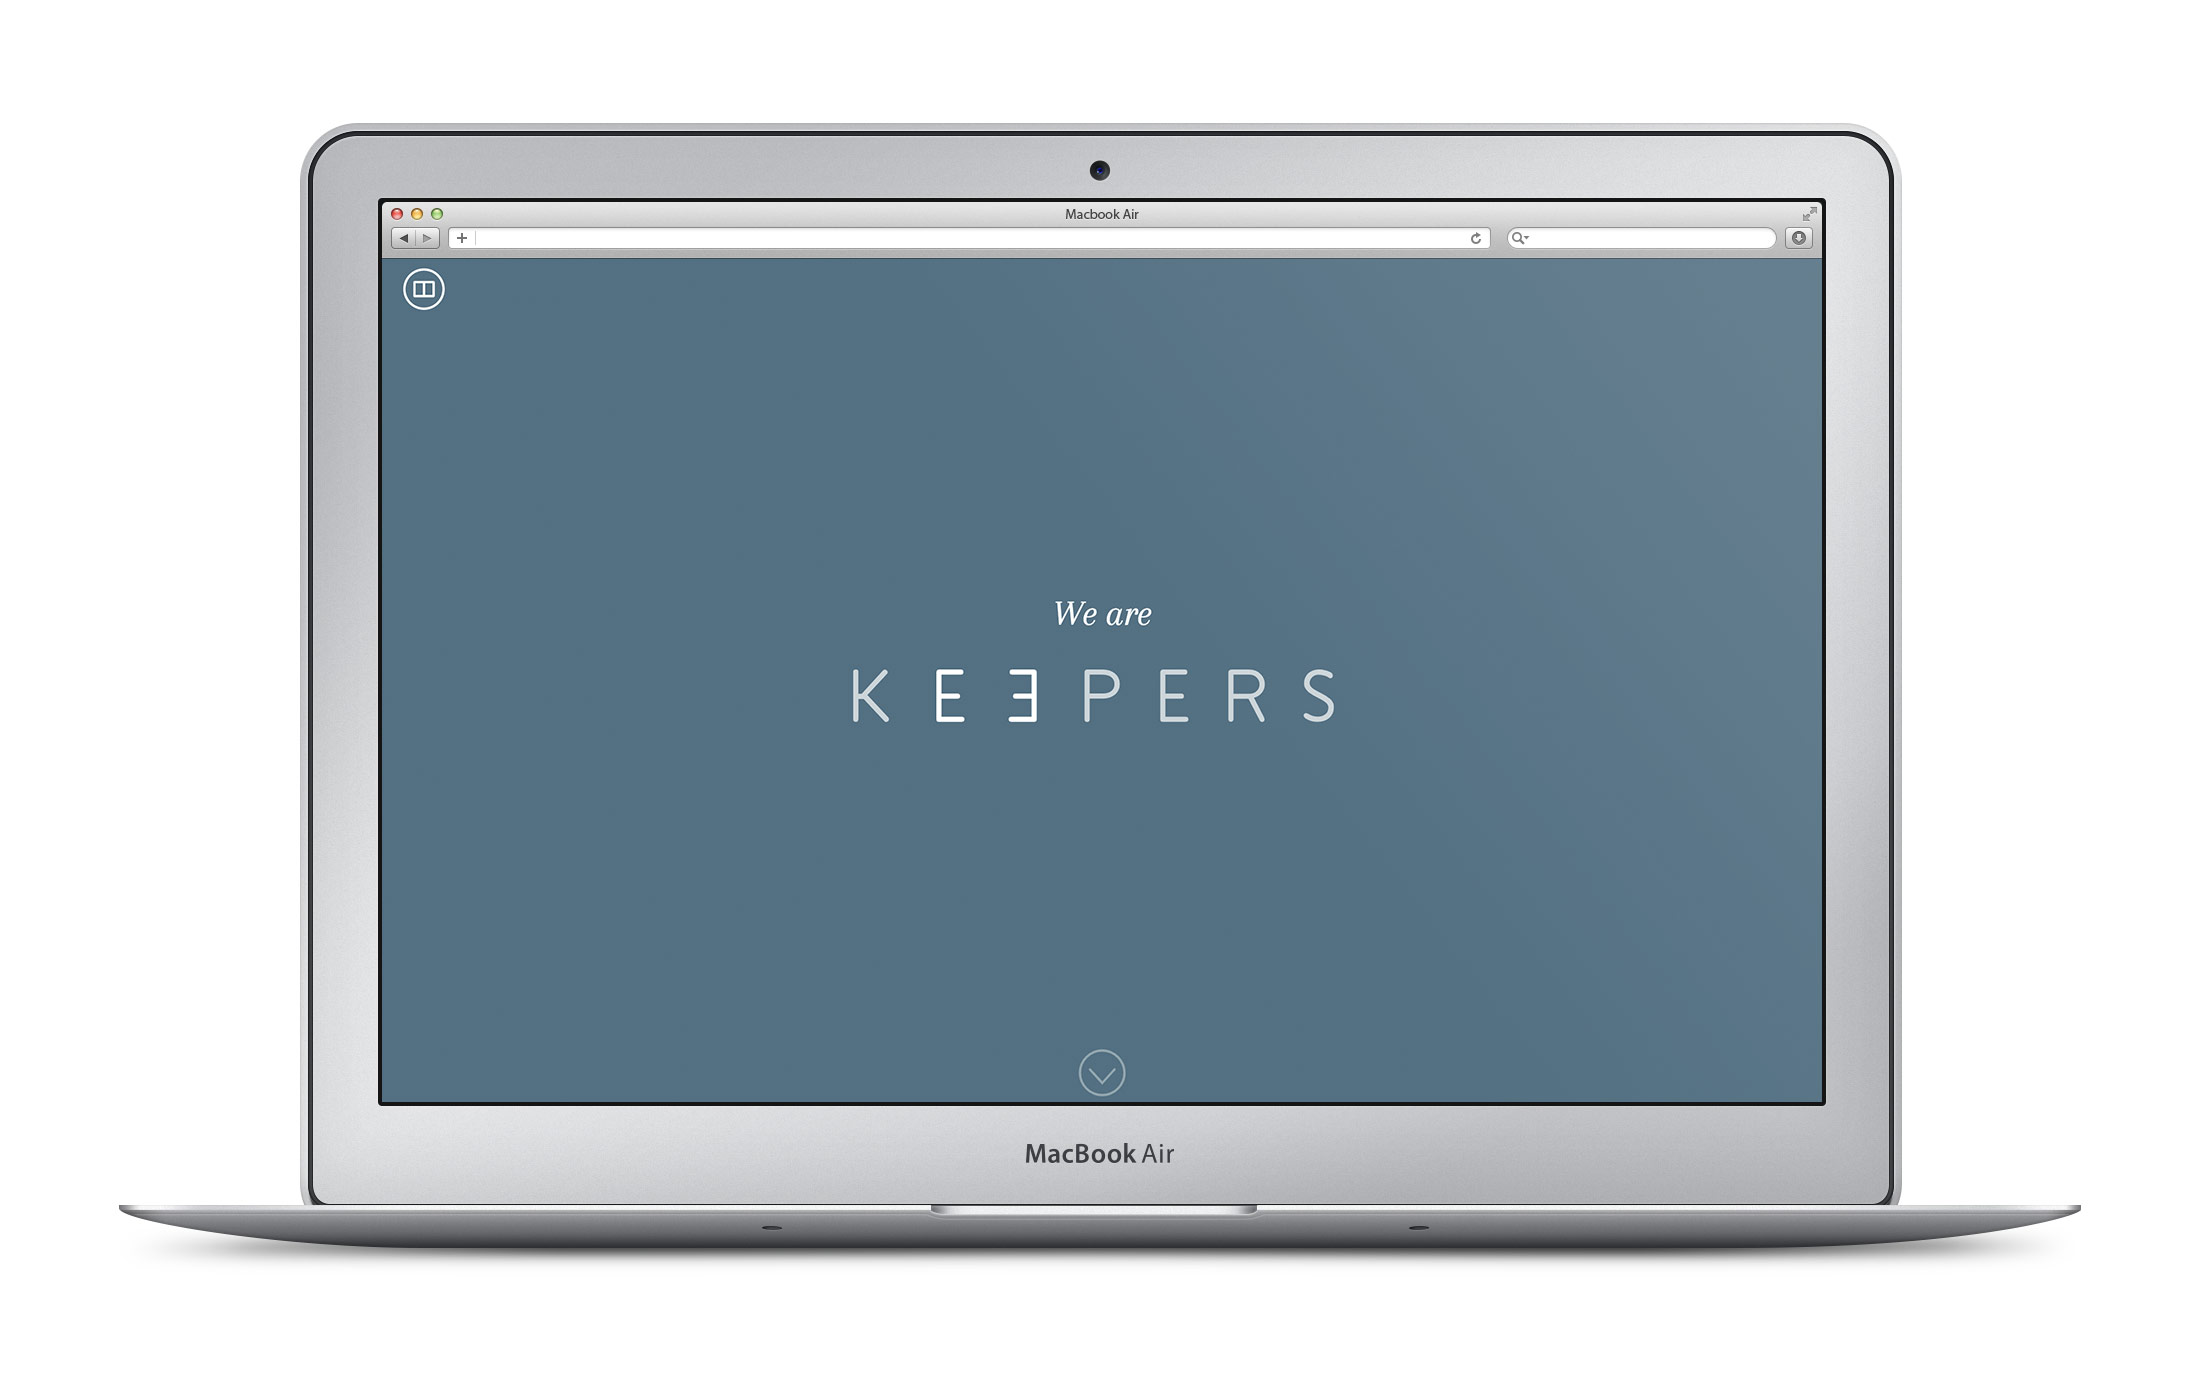
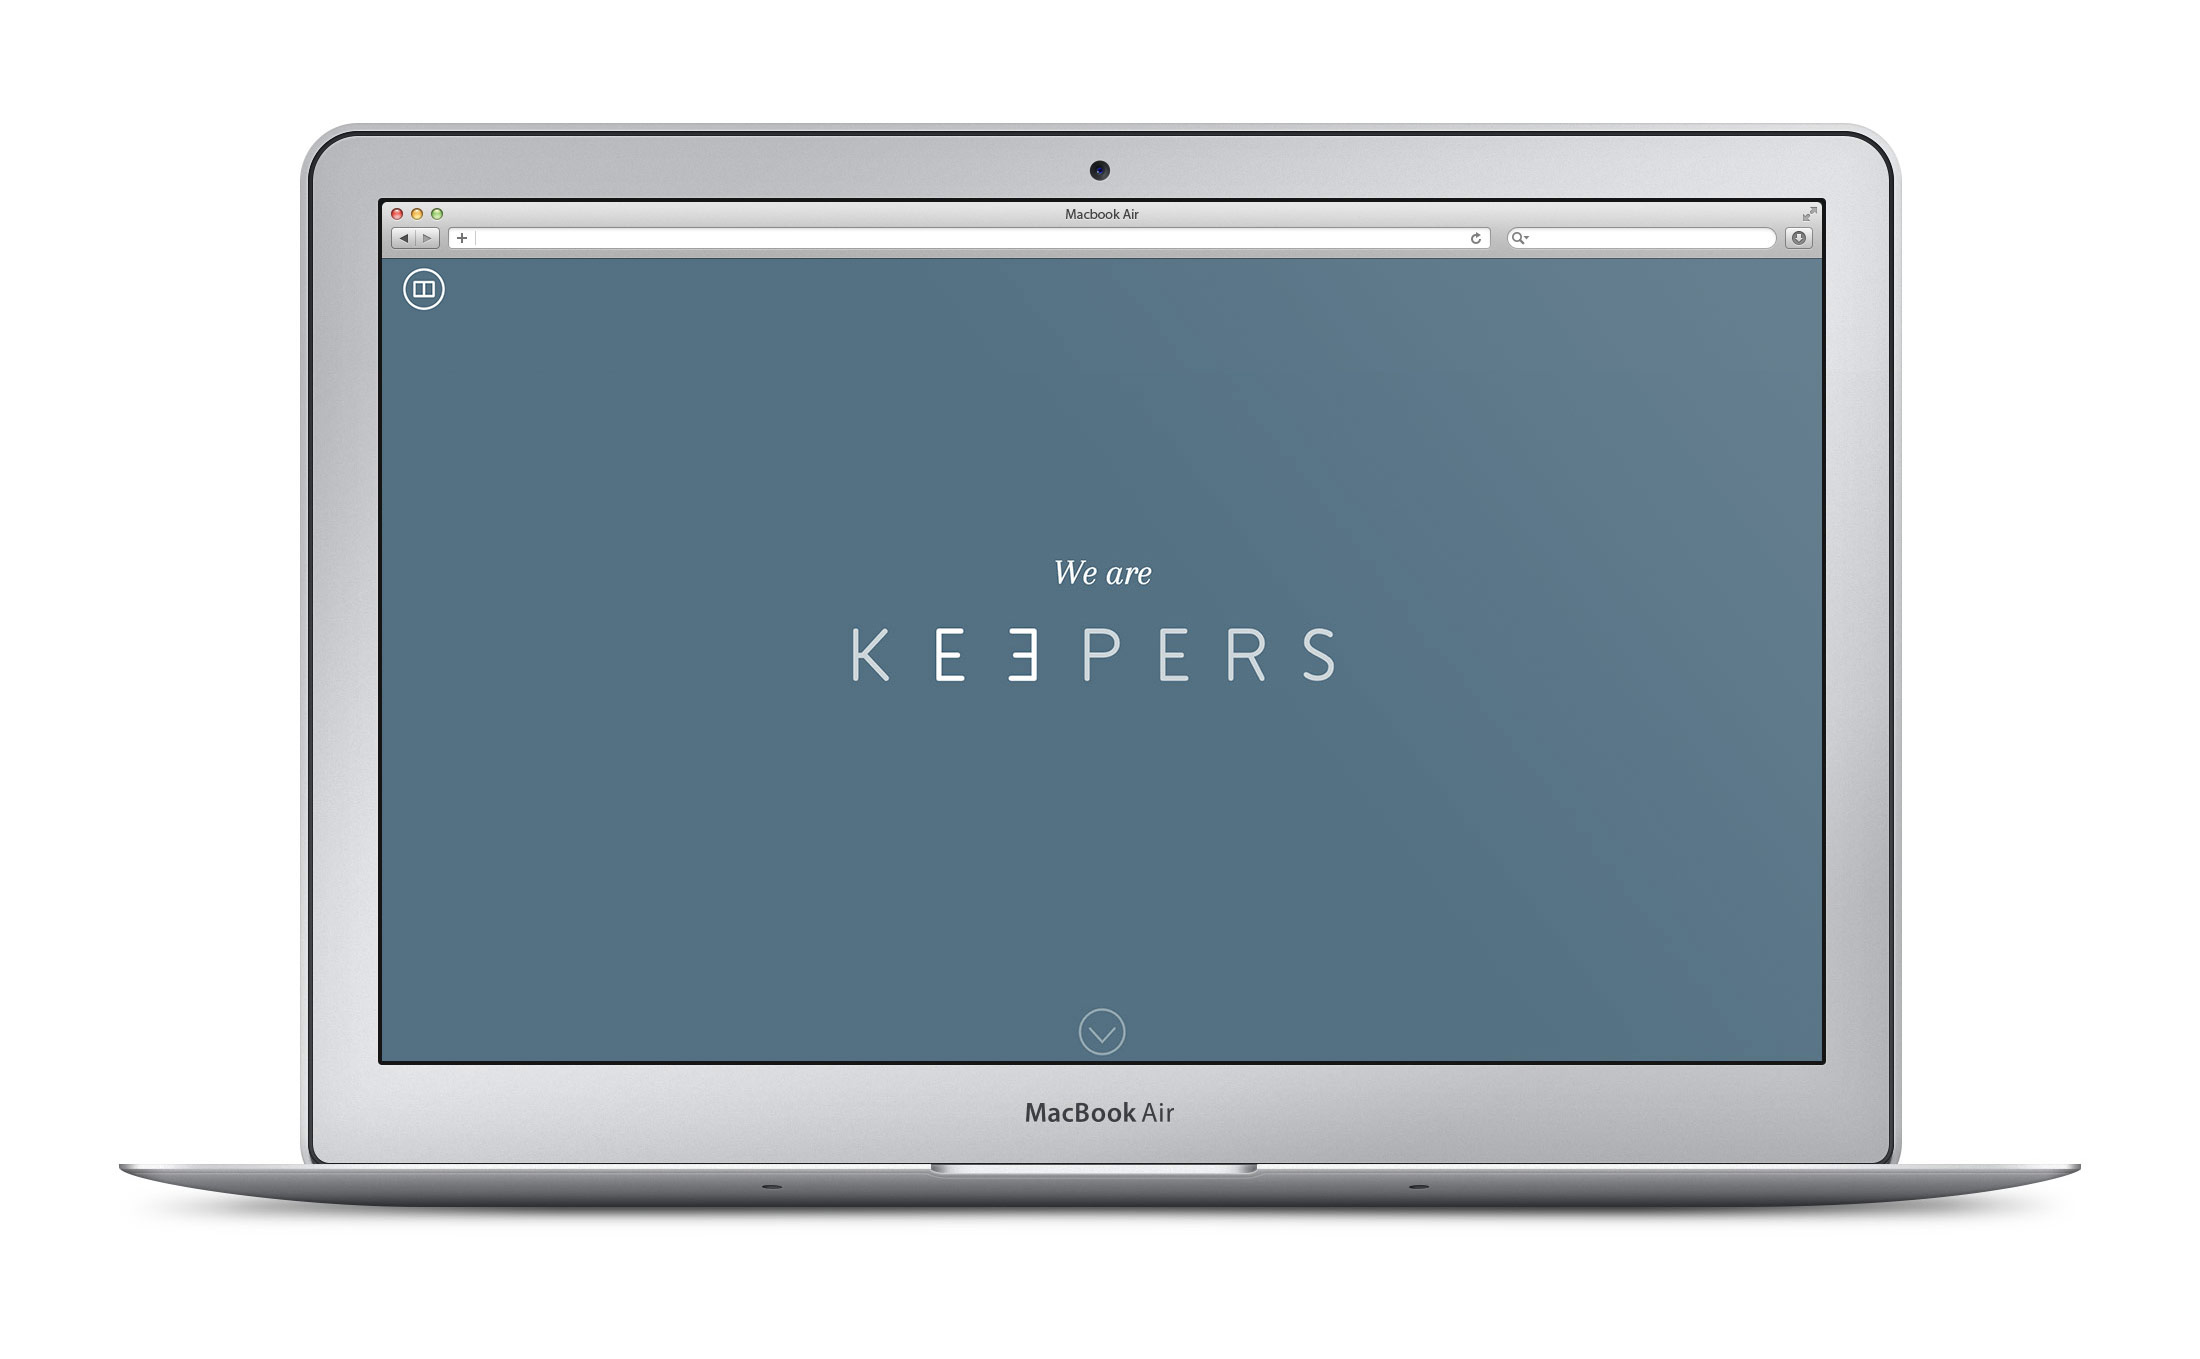
Tidy up to Keepers section, about to begin responsive

Changed region(s): [[0.0618, 0.7417, 0.9582, 0.9272], [0.1236, 0.0927, 0.8655, 0.2472], [0.3709, 0.4018, 0.6182, 0.5254]]

diff --git a/index.html b/index.html
@@ -66,9 +66,11 @@
         
         <h1>So what exactly is a UI developer?</h1>
 
-        <p>Glad you asked. It means I specialise purely in SASS / CSS3, HTML5 and responsive web design. I don't work in backend, dynamic code or even in Javascript.</p>
+        <p>It means I specialise purely in SASS / CSS3, HTML5 and responsive web design. I don't write backend, dynamic code or even Javascript.</p>
 
-        <p>Why? Specialists make the world beautiful. They care about the little things and work with other specialists to create truly incredible products.</p>
+        <p>Why? Specialists make the world a beautiful place and that extends to the web.</p>
+
+        <p>They care about the little things and work with other specialists to create truly incredible products.</p>
 
       </div>
 
@@ -258,9 +260,11 @@
 
         </div>
         
-        <img src="assets/images/work/keepers-mockup-1.jpg" alt="Keepers" class="work__block__image">
+        <div class="work__block__keepers-laptop">
+          <img src="assets/images/work/keepers-recording-alt.gif" alt="Keepers" class="work__block__keepers-laptop__animation">
+          <img src="assets/images/work/keepers-mockup-1.jpg" alt="Keepers" class="work__block__keepers-laptop__bg">
+        </div>
 
-        <img src="assets/images/work/keepers-recording-alt.gif" alt="Keepers" class="work__block__image work__block__image--full-width">
 
     </section>
 
@@ -308,7 +312,7 @@
 
     <section class="portfolio-section">
 
-        <h4>4.</h4>
+        <h4>5.</h4>
         
         <h1>Contact</h1>
 

diff --git a/assets/css/styles.css b/assets/css/styles.css
@@ -878,6 +878,19 @@ p {
 .work__block__image--full-width {
   width: 100%; }
 
+.work__block__keepers-laptop {
+  width: 100%;
+  height: 100%;
+  min-height: 100vh;
+  position: relative;
+  overflow: hidden; }
+
+.work__block__keepers-laptop__animation {
+  position: absolute;
+  width: 65.5%;
+  left: 17.35%;
+  top: 19%; }
+
 .feed {
   background: #2e2e2e url("../images/bg/castro.jpg") center center no-repeat;
   background-size: cover;

diff --git a/assets/sass/partials/_work.scss b/assets/sass/partials/_work.scss
@@ -120,3 +120,18 @@
 .work__block__image--full-width {
   width: 100%;
 }
+
+.work__block__keepers-laptop {
+  width: 100%;
+  height: 100%;
+  min-height: 100vh;
+  position: relative;
+  overflow: hidden;
+}
+
+.work__block__keepers-laptop__animation {
+  position: absolute;
+  width: 65.5%;
+  left: 17.35%;
+  top: 19%;
+}
